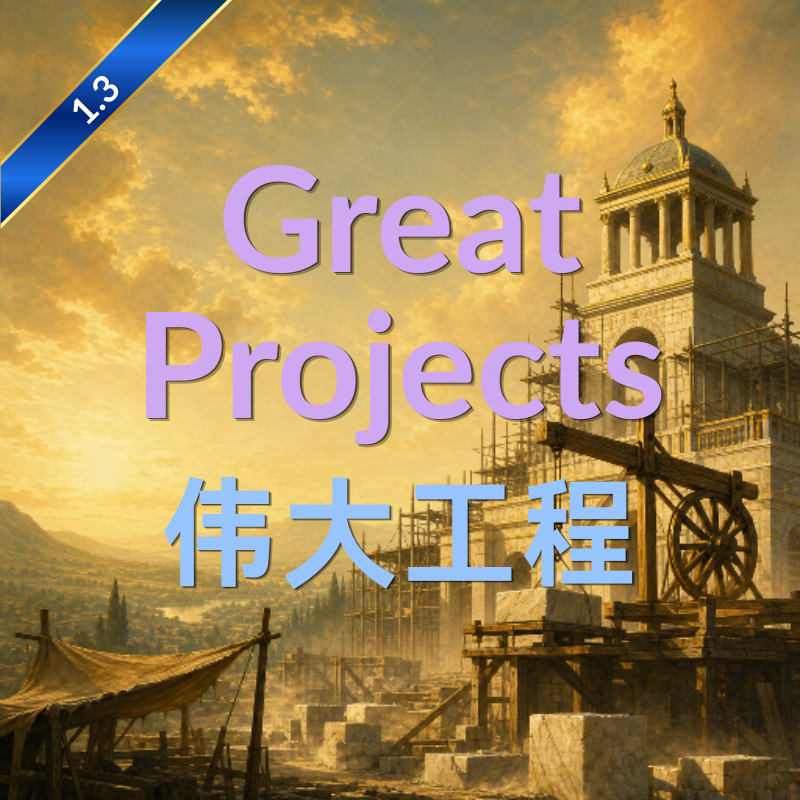
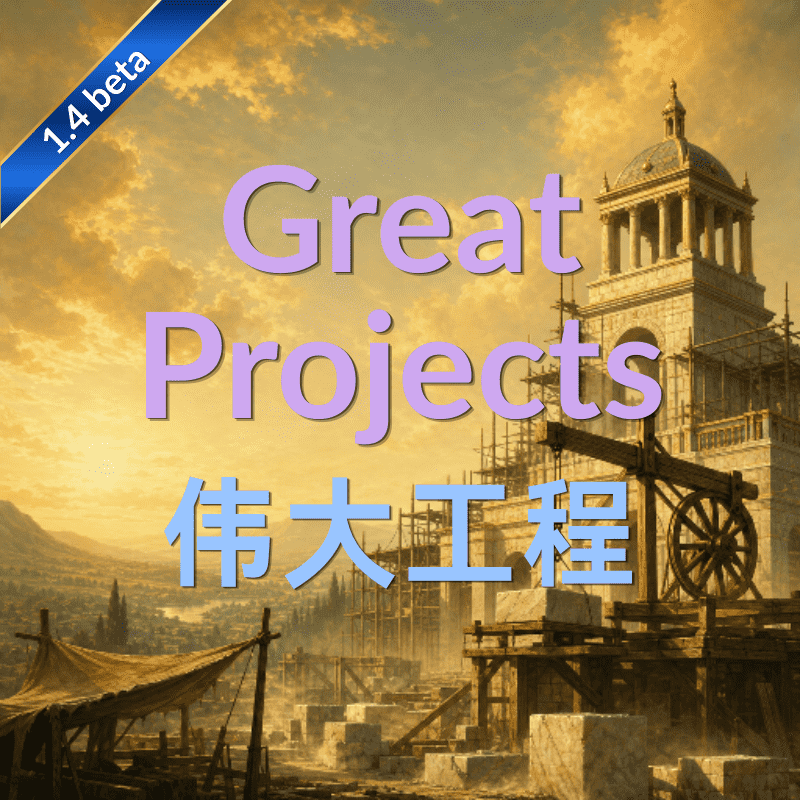
update marketing

Changed region(s): [[0.0312, 0.0625, 0.1875, 0.1875], [0.5, 0.0, 0.5312, 0.0312]]

diff --git a/docs/marketing/assets/gen_hero_banner.py b/docs/marketing/assets/gen_hero_banner.py
@@ -165,7 +165,7 @@ def build_hero(text: str, is_zh: bool, out_name: str) -> None:
     size = 150 if is_zh else 128
     font = ImageFont.truetype(str(font_path), size)
     tracking = 0 if is_zh else 8
-    subtitle = "260805 Update"
+    subtitle = "261014 Update"
     subtitle_font = ImageFont.truetype(str(FONT_EN), 44)
 
     _, text_h = title_dims(draw, text, font, is_zh, tracking)

diff --git a/docs/marketing/steam_page_zh.md b/docs/marketing/steam_page_zh.md
@@ -1,63 +1,63 @@
-[img]https://i.imgur.com/IUg6ek3.png[/img]
-[i]本次更新重点是一些QoL改动，实现了一些小伙伴提出的要求[/i]
+[b]本条目仅适用于 EU5 1.4 beta 分支。[/b]默认的 1.3 正式版请改用 [b][url=https://steamcommunity.com/sharedfiles/filedetails/?id=3766375743]Standard of Living (v1.3)[/url][/b]，请勿同时启用两个版本。
+
+[h2]10/07 v1.4 beta 更新[/h2]
 [list]
-[*] 加入了2个新的通用奇观，并扩展了13处亚洲地区的历史独特奇观
-[*] 现在可以拆除已有奇观，也可以通过关闭暂时禁用，作为价值观冲突问题的简易规避措施
-[*] 工地在缺少投入品时会放慢进度
-[*] 现在当你需要打开工程部页面做些什么时，右上方会有UI提醒
-[*] 调整了一批明显存在问题的奇观增益，包括市场吸引力、粮仓等
-[*] 使用 [url=https://steamcommunity.com/sharedfiles/filedetails/?id=3692202776] Community Mod Framework (CMF) [/url] 的游戏内菜单功能，可以在一定程度上控制伟大工程的建造难度
-[*] 模组现在内置 [b][url=https://steamcommunity.com/sharedfiles/filedetails/?id=3601047146] Glorp UI [/url][/b] 版本的 location window，因此，在置于 GlorpUI（和[b][url=https://steamcommunity.com/sharedfiles/filedetails/?id=3736668860] 建设管理器 [/url][/b]）下方时，将正确显示融合版UI
+[*]适配 EU5 1.4 beta。
+[*]没有任何功能性改动
+[*]与 [b][url=https://steamcommunity.com/sharedfiles/filedetails/?id=3812518640] Glorp UI (1.4 beta) [/url][/b] 兼容，其他mod未测试（或根本未更新至1.4）
 [/list]
+
 [img]https://i.imgur.com/TnMdbwe.png[/img]
-[h2][i]从构想到落成——六个阶段，一座国家级工程。[/i][/h2]
+[h2][i]从构想到落成，六个阶段，一座国家级纪念工程。[/i][/h2]
 
-[img]https://i.imgur.com/GdMlBGy.png[/img]
+[img]https://i.imgur.com/qVex6lv.png[/img]
 
-原版 EU5 的奇观只是装饰——一段风味小知识，仅此而已。[b]伟大工程[/b] 把它变成一项真正的国家工程：一个专门负责统筹整个流程的组织、一套每个阶段都有真实代价的建造流程，以及最终揭幕时对全国生效的永久回报。
+原版 EU5 的奇观只是装饰，一段风味小知识，仅此而已。[b]伟大工程[/b] 将它们变成一项完整的国家工程：由专门的组织统筹流程，每个阶段都需要付出实际代价，最终落成时更会带来永久的全国性回报。
 
-[img]https://i.imgur.com/cFeHvhv.png[/img]
+[img]https://i.imgur.com/haIXGbe.png[/img]
 
-[i]工程部面板——整个建造流程都在这里追踪。[/i]
+[i]工程部面板，整个建造流程都在这里追踪。[/i]
 [list]
-[*] 一个独立的国际组织，[b]工程部[/b]，负责管理整个奇观建造流程
-[*] [b]56 种通用奇观[/b]，任何国家均可建造；另有 [b]136 座历史独特奇观[/b]，绑定各自的真实历史地点——亚历山大的法罗斯灯塔、君士坦丁堡的圣索菲亚大教堂、库姆的波斯坎儿井等
+[*] 独立的国际组织 [b]工程部[/b]，负责管理整个奇观建造流程
+[*] [b]56 种通用奇观[/b]可供任何国家建造，另有 [b]136 座历史独特奇观[/b]绑定其真实历史地点，包括亚历山大的法罗斯灯塔、君士坦丁堡的圣索菲亚大教堂、库姆的波斯坎儿井等
 [*] 完整的 [b]六阶段建造流程[/b]：构想 → 论证 → 勘测 → 建设 → 仪式 → 落成
-[*] 专属的 [b]地图模式[/b]，为全世界已建成的奇观标色——既能规划自己的建造，也能借此侦察他国已建成的奇观、作为征服目标
-[*] 配套的 [b]奇观图鉴网站[/b]，无需进入游戏即可在世界地图上浏览全部独特奇观
+[*] 专属的 [b]地图模式[/b]，为全世界已建成的奇观标色。你可以规划自己的建造，也可以侦察他国已建成的奇观，将其作为征服目标
+[*] 使用 [url=https://steamcommunity.com/sharedfiles/filedetails/?id=3692202776] Community Mod Framework (CMF) [/url] 的游戏内菜单功能，可以控制伟大工程的建造难度
+[*] 配套的 [b]奇观图鉴[/b]网站，可在游戏外的世界地图上浏览全部独特奇观
 [/list]
 
-[img]https://i.imgur.com/JKUnW0s.png[/img]
+[img]https://i.imgur.com/8L5HRD1.png[/img]
 
-[i]建设——把建材投入奇观的四个组成部分：地基、主体、功能与饰面。[/i]
+[i]建设，将建材投入地基、主体、功能与装饰四个部分。[/i]
 [olist]
-[*] [b]构想[/b] —— 你的伟大工程师会根据国家现状同时提出三个方案，小/中/大型；你可以接受其中一个、重拟（花费声望），或拨款换取全新的一组方案
-[*] [b]论证[/b] —— 在建设开始前，需要争取贵族、市民与教会的支持，积累国内支持度（0–200）
-[*] [b]勘测[/b] —— 对选定地点评估规模、物流、组织度三项指标；结果会永久锁定奇观的最高等级，以及你此后能达到的最快建造速度
-[*] [b]建设[/b] —— 建造配套设施，将建材投入奇观的四个组成部分
-[*] [b]仪式[/b] —— 通用奇观可在 3 种风格中挑选；大多数独特奇观则会自动经历一套共通的8阶段仪式，只有法罗斯灯塔与圣索菲亚大教堂这两座拥有完全专属定制的仪式；这一步才真正决定了奇观的最终效果
-[*] [b]落成[/b] —— 奇观正式建成，你会获得全国性的庆典增益，落成消息也会作为世界新闻公开播报
+[*] [b]构想[/b]，你的伟大工程师会根据国家现状提出一项奇观方案。你可以接受方案、花费威望要求修改，或投入资金获取一组全新的方案
+[*] [b]论证[/b]，在建设开始前争取贵族、市民与教会的支持
+[*] [b]勘测[/b]，从规模、物流和组织度三方面为选址评分，永久决定奇观的最高等级、成本与建造时间
+[*] [b]建设[/b]，建造配套基础设施，并将建材投入奇观的四个组成部分
+[*] [b]仪式[/b]，通用奇观可从 3 种风格中选择；独特奇观则会举行根据其历史定制的仪式。这一步才真正决定奇观的最终效果
+[*] [b]落成[/b]，奇观正式建成，你会获得全国性的庆典增益，落成消息也会作为世界新闻公开播报
 [/olist]
 
-[img]https://i.imgur.com/WCc5gTr.png[/img]
+[img]https://i.imgur.com/kGFEXBh.png[/img]
 [list]
-[*] 本模组[b]需要[/b][b][url=https://steamcommunity.com/sharedfiles/filedetails/?id=3692202776] Community Mod Framework (CMF) [/url][/b] 2.x——本模组依赖它提供的回调，在你每次读档时修复自身状态。
-[*] [b]存档兼容[/b]：你可以用旧存档添加本mod继续游玩。
-[*] [b]最大兼容[/b]：本模组的建造逻辑运行在自己的一套变量上，理论上应该与任何模组兼容。
-[*] [b]UI 冲突[/b]：本模组修改了 location_window.gui 与 encyclopedia_lateralview.gui。同样修改这两个文件的其他模组会与本模组互相覆盖。维护中的兼容补丁见 [url=https://steamcommunity.com/workshop/filedetails/?id=3766879023] Great Project - Compatibility Submods [/url]。
-[i]注：只影响UI显示。[/i]
+[*] 本模组与 [b][url=https://steamcommunity.com/sharedfiles/filedetails/?id=3692202776] Community Mod Framework (CMF) [/url][/b] 搭配时效果最佳，但也可以不安装 CMF 单独使用。
+[*] 本模组内置 [b][url=https://steamcommunity.com/sharedfiles/filedetails/?id=3601047146] Glorp UI [/url][/b] 版本的 location_window。将本模组置于 Glorp UI（及 [b][url=https://steamcommunity.com/sharedfiles/filedetails/?id=3736668860] Construction Manager [/url][/b]）下方加载时，将正确显示整合版 UI。
+[*] [b]存档兼容[/b]：可以在旧存档中添加本模组继续游玩。
+[*] [b]最大兼容性[/b]：本模组的建造逻辑使用独立变量，应当能与任何模组兼容。
+[*] [b]UI 问题[/b]：本模组修改了 location_window.gui 与 encyclopedia_lateralview.gui。同样修改这些文件的其他模组会与本模组互相覆盖。维护中的兼容补丁见 [url=https://steamcommunity.com/workshop/filedetails/?id=3766879023] Great Project - Compatibility Submods [/url]。
+[i]注：这只会影响 UI 显示。[/i]
 [/list]
 
-[img]https://i.imgur.com/9hS7MxD.png[/img]
+[img]https://i.imgur.com/byuuVeq.png[/img]
 [list]
-[*] 本模组使用 AI 工作流生成海量内容。
-[*] 特别感谢 Trinedy 的 [url=https://steamcommunity.com/sharedfiles/filedetails/?id=3668193813] National Destinies [/url]。本项目"LLM 辅助模组制作流程"与"EU5 地图网站"的最初想法都来自于它。
+[*] 本模组使用 AI 工作流生成内容，包括其他语言的翻译，因此语言质量无法保证。
+[*] 特别感谢 Trinedy 的 [url=https://steamcommunity.com/sharedfiles/filedetails/?id=3668193813] National Destinies [/url]。本项目的 LLM 辅助模组制作流程，以及 EU5 地图网站的最初实现，均受到该模组启发。
 [/list]
 
-[img]https://i.imgur.com/8OwqW49.png[/img]
+[img]https://i.imgur.com/P2o7vfY.png[/img]
 [list]
-[*] [b][url=https://github.com/HLJSXK/eu5-towards-victory/wiki]GitHub wiki: [/url][/b]查看本模组的完整详情。
-[*] [b][url=https://hljsxk.github.io/eu5-towards-victory]奇观图鉴网站: [/url][/b]无需进入游戏即可查看奇观数据。
-[*] [b][url=https://discord.gg/Yy87G2hBHz]Discord: [/url][/b]欢迎在此服务器讨论与反馈。
-[*] [b][url=https://qm.qq.com/q/MY89RweZcO]QQ: [/url][/b]1070041687
+[*] [b][url=https://github.com/HLJSXK/eu5-towards-victory/wiki/Great-Project-%E2%80%94-GitHub-Wiki]GitHub Wiki：[/url][/b]查看本模组的完整详情。
+[*] [b][url=https://hljsxk.github.io/eu5-towards-victory]奇观图鉴网站：[/url][/b]无需进入游戏即可查看奇观数据。
+[*] [b][url=https://discord.gg/Yy87G2hBHz]Discord：[/url][/b]欢迎在服务器中讨论与反馈。
+[*] [b][url=https://qm.qq.com/q/MY89RweZcO]QQ：[/url][/b]1070041687
 [/list]

diff --git a/docs/marketing/steam_page_en.md b/docs/marketing/steam_page_en.md
@@ -1,13 +1,10 @@
-[img]https://i.imgur.com/iU6bsM0.png[/img]
-[i]This update focuses on QoL improvements and requests raised by players.[/i]
+[b]This item is for the EU5 1.4 beta branch only.[/b] On the default 1.3 release, please use [b][url=https://steamcommunity.com/sharedfiles/filedetails/?id=3766375743]Standard of Living (v1.3)[/url][/b] instead. Do not enable both versions.
+
+[h2]10/07 v1.4 beta Compact Update[/h2]
 [list]
-[*] Added 2 new generic wonders and expanded Asia with 13 historical unique wonders
-[*] Existing wonders can now be demolished, or temporarily disabled by turning them off as a simple workaround for value-conflict issues
-[*] Worksites now slow down when they lack required inputs
-[*] When you need to open the Engineering Department and do something, a UI alert now appears in the top-right corner
-[*] Rebalanced several obviously problematic wonder bonuses, including market attraction and granary-style effects
-[*] Using the in-game menu feature from [url=https://steamcommunity.com/sharedfiles/filedetails/?id=3692202776] Community Mod Framework (CMF) [/url], you can now control Great Project construction difficulty to some extent
-[*] The mod now includes the [b][url=https://steamcommunity.com/sharedfiles/filedetails/?id=3601047146] Glorp UI [/url][/b] version of location_window. When loaded below Glorp UI (and [b][url=https://steamcommunity.com/sharedfiles/filedetails/?id=3736668860] Construction Manager [/url][/b]), it will correctly display the integrated UI version
+[*]Updated for EU5 1.4 beta.
+[*]No functional changes.
+[*]Compatible with [b][url=https://steamcommunity.com/sharedfiles/filedetails/?id=3812518640] Glorp UI (1.4 beta) [/url][/b]. Other mods not tested (or not updated yet)
 [/list]
 
 [img]https://i.imgur.com/TnMdbwe.png[/img]
@@ -25,6 +22,7 @@ Vanilla wonders in EU5 are decorative — a flavor tooltip, nothing more. [b]Gre
 [*] [b]56 generic wonders[/b] any nation can pursue, plus [b]136 historical unique wonders[/b] tied to their real-world locations — Pharos at Alexandria, Hagia Sophia at Constantinople, the Persian Qanat at Qom, and more
 [*] A [b]six-stage build[/b]: Concept → Debate → Survey → Construction → Ceremony → Finalization
 [*] A dedicated [b]map mode[/b] that colors every completed wonder worldwide — plan your own build, or scout other nations' finished wonders as conquest targets
+[*] Using the in-game menu feature from [url=https://steamcommunity.com/sharedfiles/filedetails/?id=3692202776] Community Mod Framework (CMF) [/url], you can control Great Project construction difficulty
 [*] A companion [b]Wonders Atlas[/b] website to browse every unique wonder on a world map, outside the game
 [/list]
 
@@ -43,6 +41,7 @@ Vanilla wonders in EU5 are decorative — a flavor tooltip, nothing more. [b]Gre
 [img]https://i.imgur.com/kGFEXBh.png[/img]
 [list]
 [*] This mod works best with [b][url=https://steamcommunity.com/sharedfiles/filedetails/?id=3692202776] Community Mod Framework (CMF) [/url][/b], but can go without it.
+[*] The mod includes a built-in [b][url=https://steamcommunity.com/sharedfiles/filedetails/?id=3601047146] Glorp UI [/url][/b] version location_window. When loaded below Glorp UI (and [b][url=https://steamcommunity.com/sharedfiles/filedetails/?id=3736668860] Construction Manager [/url][/b]), it will correctly display the integrated UI version
 [*] [b]Savegame compatible[/b]: You can play this mod with old saves.
 [*] [b]Maximum compatibility[/b]: The construction logic of this mod works on its own variables, and should be compatible with any mod.
 [*] [b]UI issue[/b]: This mod modifies location_window.gui and encyclopedia_lateralview.gui. Other mods who also do this will cause overwrites on each other. See [url=https://steamcommunity.com/workshop/filedetails/?id=3766879023] Great Project - Compatibility Submods [/url] for maintained patches.
@@ -51,7 +50,7 @@ Vanilla wonders in EU5 are decorative — a flavor tooltip, nothing more. [b]Gre
 
 [img]https://i.imgur.com/byuuVeq.png[/img]
 [list]
-[*] This mod use an AI pipeline to generate the massive contents.
+[*] This mod use an AI pipeline to generate the contents. This includes translation to other languages, and so language quality is not guaranteed.
 [*] Special thanks to Trinedy's [url=https://steamcommunity.com/sharedfiles/filedetails/?id=3668193813] National Destinies [/url]. This mod is where I got the idea of LLM-assisted modding pipelines and the original implementation of a EU5-map-website.
 [/list]
 
